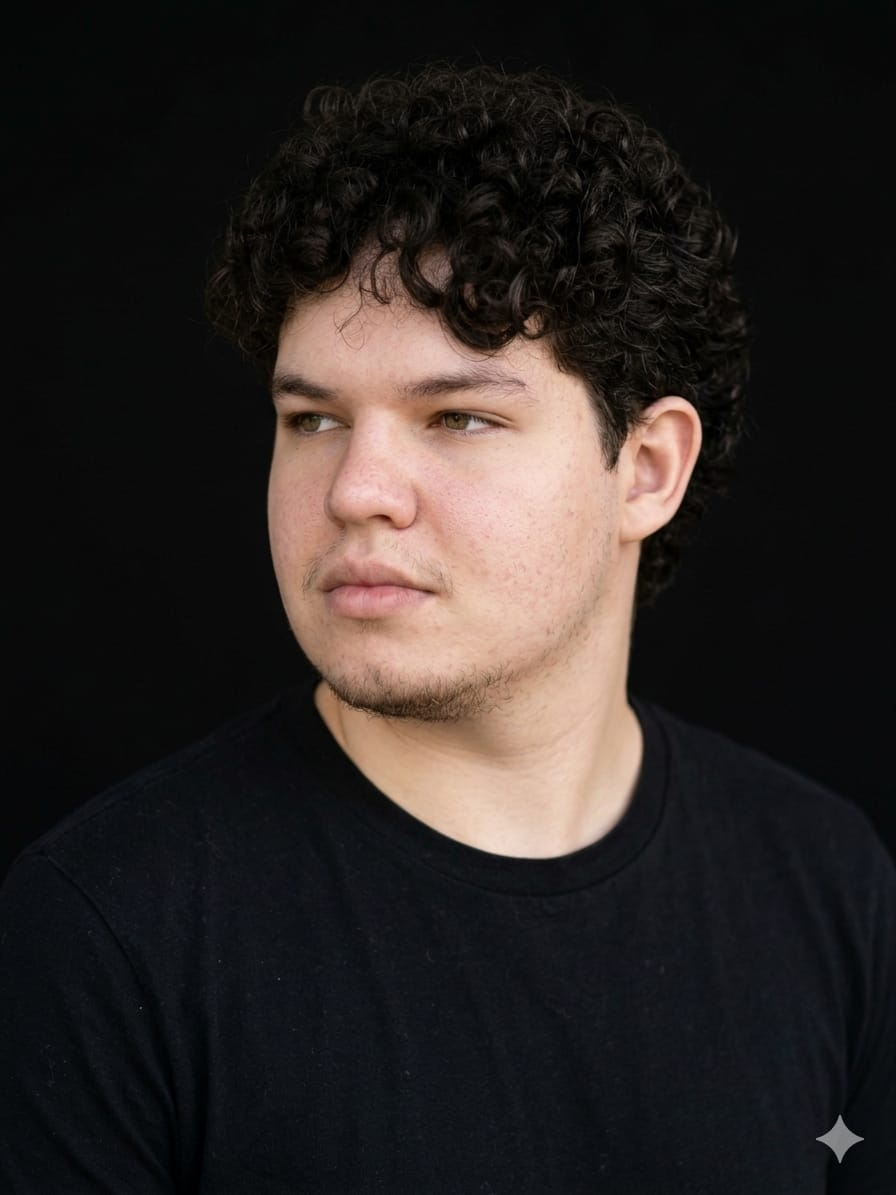
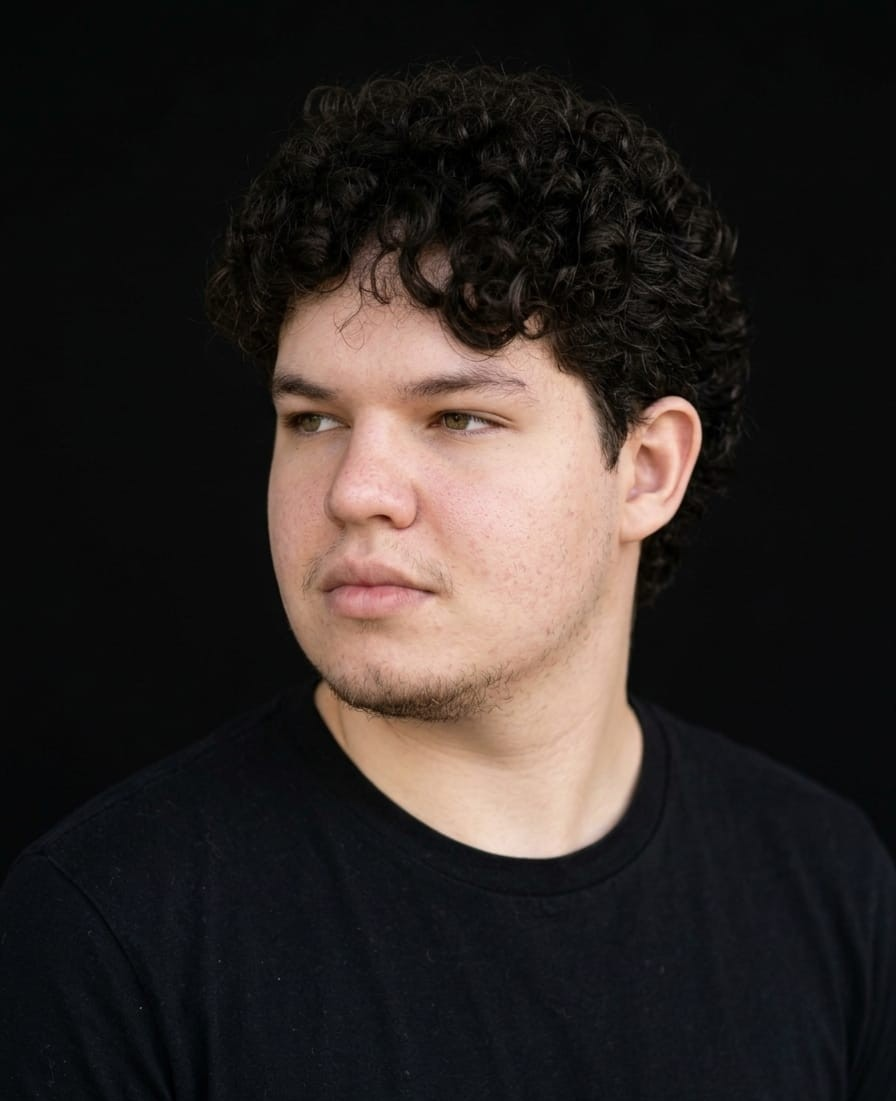
Fix profile image path and update asset

diff --git a/src/pages/Home/index.tsx b/src/pages/Home/index.tsx
@@ -60,7 +60,7 @@ const Home = () => {
 
         <div className="flex justify-center md:justify-end">
           <img
-            src="public/eu-mesmo.jpeg"
+            src="/eu-mesmo.jpeg"
             alt="Foto de perfil"
             className="w-72 h-92 object-cover rounded-full border border-zinc-800"
           />
